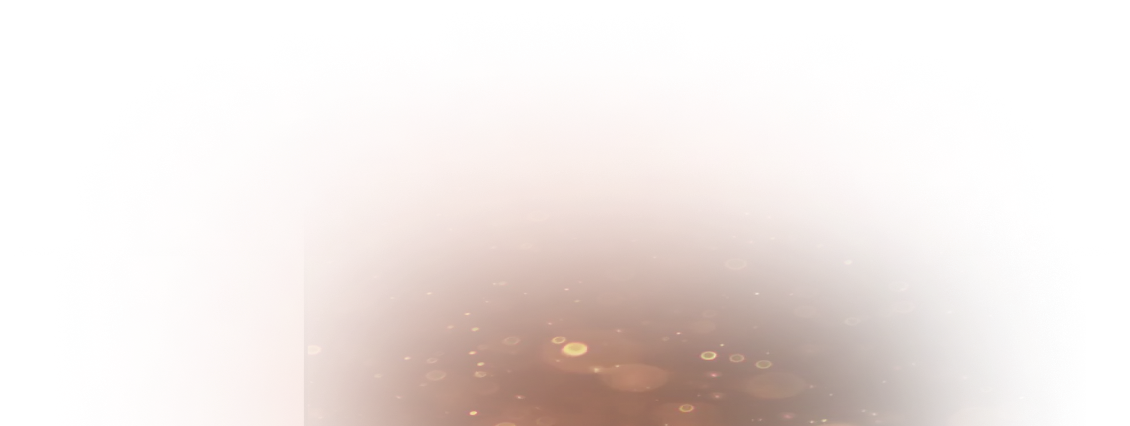
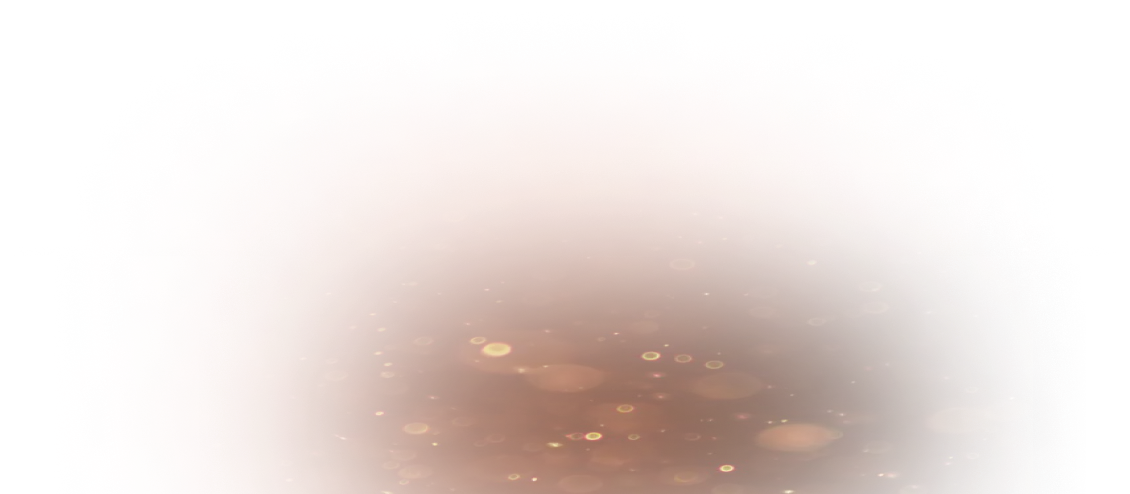
footer edits

diff --git a/style/style.min.css b/style/style.min.css
@@ -1,1 +1,1 @@
-@font-face{font-family:'Intro Black';src:url("../fonts/intro_black.ttf") format("truetype");font-weight:400;font-style:normal}*,*::before,*::after{-webkit-box-sizing:border-box;box-sizing:border-box;margin:0;padding:0;position:relative;scroll-behavior:smooth}ul{list-style:none}a,a:visited{text-decoration:none;color:#fff}body{line-height:1.7;font-family:'Montserrat', sans-serif;text-rendering:optimizeLegibility;-webkit-font-smoothing:antialiased;-moz-osx-font-smoothing:grayscale;background-color:#0A0011;overflow-x:hidden}.container{margin:0 auto;padding:0 30px;max-width:1260px}.section{width:100%;position:relative}.btn{-webkit-appearance:none;-moz-appearance:none;appearance:none;border:none;display:block;cursor:pointer;background:linear-gradient(87.55deg, #EF4E1C 0%, #FF6D40 95.72%);-webkit-box-shadow:0px 4px 113px rgba(241,82,32,0.82),inset 0px 0px 31px #FF966B;box-shadow:0px 4px 113px rgba(241,82,32,0.82),inset 0px 0px 31px #FF966B;border-radius:12px;font-size:21px;line-height:176%;font-weight:700;text-align:center;display:-webkit-box;display:-ms-flexbox;display:flex;-webkit-box-align:center;-ms-flex-align:center;align-items:center;-webkit-box-pack:center;-ms-flex-pack:center;justify-content:center;letter-spacing:0.095em;text-transform:uppercase;color:#fff;padding:30px;-webkit-transition:-webkit-box-shadow .3s ease-in-out;transition:-webkit-box-shadow .3s ease-in-out;transition:box-shadow .3s ease-in-out;transition:box-shadow .3s ease-in-out, -webkit-box-shadow .3s ease-in-out}.btn:hover{-webkit-box-shadow:0px 4px 73px rgba(241,82,32,0.82),inset 0px 0px 31px #FF966B;box-shadow:0px 4px 73px rgba(241,82,32,0.82),inset 0px 0px 31px #FF966B}.text{font-weight:400;font-size:18px;line-height:176%}.title{font-family:'Intro Black';font-style:normal;font-weight:900;line-height:110%;font-size:66px}.d-none{display:none !important}.no-events{pointer-events:none}.overflow-hidden{overflow:hidden}.floating{-webkit-animation:floating 6s linear infinite;animation:floating 6s linear infinite}.floating-1{-webkit-animation:floating 5s ease-in infinite;animation:floating 5s ease-in infinite;-webkit-animation-delay:1s;animation-delay:1s}.floating-2{-webkit-animation:floatingX 8s linear infinite;animation:floatingX 8s linear infinite}.floating-3{-webkit-animation:floating 4s linear infinite;animation:floating 4s linear infinite}.floating-4{-webkit-animation:floatingX 5s ease-in-out infinite;animation:floatingX 5s ease-in-out infinite}.floating-delay{-webkit-animation-delay:3s;animation-delay:3s;-webkit-animation-duration:5.5s;animation-duration:5.5s}@-webkit-keyframes floating{0%{-webkit-transform:rotate(0deg) translate(0, 0);transform:rotate(0deg) translate(0, 0)}50%{-webkit-transform:rotate(1deg) translate(0, -20px);transform:rotate(1deg) translate(0, -20px)}100%{-webkit-transform:rotate(0deg) translate(0, 0);transform:rotate(0deg) translate(0, 0)}}@keyframes floating{0%{-webkit-transform:rotate(0deg) translate(0, 0);transform:rotate(0deg) translate(0, 0)}50%{-webkit-transform:rotate(1deg) translate(0, -20px);transform:rotate(1deg) translate(0, -20px)}100%{-webkit-transform:rotate(0deg) translate(0, 0);transform:rotate(0deg) translate(0, 0)}}@-webkit-keyframes floatingX{0%{-webkit-transform:rotate(0deg) translate(0, 0);transform:rotate(0deg) translate(0, 0)}50%{-webkit-transform:rotate(4deg) translate(20px, 5px);transform:rotate(4deg) translate(20px, 5px)}100%{-webkit-transform:rotate(0deg) translate(0, 0);transform:rotate(0deg) translate(0, 0)}}@keyframes floatingX{0%{-webkit-transform:rotate(0deg) translate(0, 0);transform:rotate(0deg) translate(0, 0)}50%{-webkit-transform:rotate(4deg) translate(20px, 5px);transform:rotate(4deg) translate(20px, 5px)}100%{-webkit-transform:rotate(0deg) translate(0, 0);transform:rotate(0deg) translate(0, 0)}}.accordeon{margin-bottom:30px;z-index:2}.accordeon__head{width:100%;background-color:#0F0F0F;border-radius:13px;padding:14px 38px 14px 55px;display:-webkit-box;display:-ms-flexbox;display:flex;-webkit-box-align:center;-ms-flex-align:center;align-items:center;-webkit-box-pack:justify;-ms-flex-pack:justify;justify-content:space-between;cursor:pointer;z-index:2}.accordeon__head .line{-webkit-transition:-webkit-transform .3s ease-out;transition:-webkit-transform .3s ease-out;transition:transform .3s ease-out;transition:transform .3s ease-out, -webkit-transform .3s ease-out;-webkit-transform-origin:center;transform-origin:center}.accordeon__head.active .line{-webkit-transform:rotate(90deg);transform:rotate(90deg)}.accordeon__panel{margin-top:-20px;background-color:#C8C8C8;border-radius:0 0 13px 13px;max-height:0;overflow:hidden;-webkit-transition:max-height 0.2s ease-out;transition:max-height 0.2s ease-out}.accordeon__panel p{padding:60px 55px 38px}.accordeon__title{color:#fff}.header{width:100%;position:absolute;top:0;left:0;right:0;background:transparent;z-index:10;padding-top:50px}.header__wrap{display:-webkit-box;display:-ms-flexbox;display:flex;-webkit-box-align:center;-ms-flex-align:center;align-items:center}.header__logo{font-family:'Intro Black';font-style:normal;font-weight:900;font-size:33px;line-height:1.0;color:#FFFFFF;margin-right:194px}.header__logo span{display:block;font-family:'Montserrat', sans-serif;font-size:14px;line-height:1.0}.header__nav{display:-webkit-box;display:-ms-flexbox;display:flex;-webkit-box-align:center;-ms-flex-align:center;align-items:center}.header__nav-item{margin-right:53px}.header__nav-item a{font-weight:700;color:#FFFFFF}.header__lang{margin-left:auto}.header__lang a{font-weight:700;color:#B7B7B7}.header__lang span{font-weight:700;color:#B7B7B7}.header__lang a.active{color:#fff}.baner{position:relative;min-height:100vh;background:url("../assets/baner-bg.jpg") no-repeat;background-size:cover;background-position:center;overflow:hidden}.baner__wrap{display:-webkit-box;display:-ms-flexbox;display:flex;-webkit-box-pack:justify;-ms-flex-pack:justify;justify-content:space-between;padding-top:50px}.baner__hero{padding-top:160px}.baner__title{font-size:69px;color:#FFFFFF;line-height:100%;margin-bottom:30px}.baner__title span{font-size:152px;display:block;line-height:1}.baner__text{color:#fff;margin-bottom:48px;max-width:535px}.baner__man{height:100%;min-height:calc(100vh - 50px);-webkit-transform:translateX(-15%);transform:translateX(-15%)}.baner__left-corner-anim{position:absolute;left:0;bottom:0;-webkit-transform:translate(-40%, 40%);transform:translate(-40%, 40%);width:800px;height:800px}.baner__right-corner-anim{position:absolute;right:0;bottom:0;-webkit-transform:translate(40%, 40%);transform:translate(40%, 40%);width:800px;height:800px}.community{background-color:#171717;padding:240px 0;margin-top:-90px;color:#fff;background:url("../assets/community-bg.png") no-repeat;background-size:cover;background-position-x:center;overflow:hidden}.community__title{margin-bottom:54px;color:#fff;max-width:1000px}.community__title span{color:#FD6D32}.community__text{max-width:587px;color:#fff;margin-bottom:30px}.community__phone{position:absolute;top:0;right:0;width:700px;height:930px;-webkit-transform:translateX(20%);transform:translateX(20%)}.community__small-coin{position:absolute;right:-100px;bottom:400px;-webkit-filter:drop-shadow(0px 182px 107px rgba(0,0,0,0.46));filter:drop-shadow(0px 182px 107px rgba(0,0,0,0.46));-webkit-transform:rotate(-30deg);transform:rotate(-30deg);width:295px;height:280px}.community__big-coin{position:absolute;left:-100px;bottom:-100px;-webkit-filter:drop-shadow(0px 182px 107px rgba(0,0,0,0.46));filter:drop-shadow(0px 182px 107px rgba(0,0,0,0.46));width:495px;height:470px;-webkit-transform:translate(-60%, 50%) rotate(29deg);transform:translate(-60%, 50%) rotate(29deg)}.calculator{margin-top:320px}.calculator__title{text-align:center;text-transform:uppercase;margin-bottom:8px;color:#FFFFFF}.calculator__subtitle{text-align:center;letter-spacing:0.255em;text-transform:uppercase;color:#FFFFFF;margin-bottom:37px}.calculator__hero{display:-webkit-box;display:-ms-flexbox;display:flex;-webkit-box-pack:justify;-ms-flex-pack:justify;justify-content:space-between;-webkit-box-align:center;-ms-flex-align:center;align-items:center}.calculator__resume{padding:54px 50px;cursor:default;background:linear-gradient(87.55deg, #EF4E1C 0%, #FF6D40 95.72%);-webkit-box-shadow:0px 4px 113px rgba(241,82,32,0.82),inset 0px 0px 31px #FF966B;box-shadow:0px 4px 113px rgba(241,82,32,0.82),inset 0px 0px 31px #FF966B;border-radius:12px;color:#fff;max-width:550px;margin-right:50px}.calculator__resume-row{display:-webkit-box;display:-ms-flexbox;display:flex;-webkit-box-pack:justify;-ms-flex-pack:justify;justify-content:space-between;margin-bottom:40px}.calculator__resume-left{-ms-flex-preferred-size:60%;flex-basis:60%}.calculator__summ-title{letter-spacing:0;text-transform:none;text-align:left;line-height:1;margin-bottom:5px}.calculator__summ{font-size:50px;letter-spacing:0.2em;text-align:left;line-height:1.2;font-weight:700}.calculator__resume-right{-ms-flex-preferred-size:43%;flex-basis:43%;display:-webkit-box;display:-ms-flexbox;display:flex;-webkit-box-align:center;-ms-flex-align:center;align-items:center;font-weight:400;font-size:15px;text-align:left;border-left:2px solid #EBB592;padding-left:45px}.calculator__resume-text{font-size:15px}.range{padding-top:60px}.range__text{margin-bottom:64px}.range__wrap{position:relative}.range__input{width:100%;cursor:pointer;opacity:0}.range__input::-ms-tooltip{display:none}.range__track{width:100%;height:2px;background:#fff;position:absolute;top:50%;-webkit-transform:translateY(-50%);transform:translateY(-50%);pointer-events:none}.range__track-inner{width:0;height:8px;-webkit-transform:translateY(-3px);transform:translateY(-3px);background:#FD6D32;-webkit-box-shadow:0px 1px 14px rgba(241,82,32,0.82),inset 0px 0px 31px #FD6D32;box-shadow:0px 1px 14px rgba(241,82,32,0.82),inset 0px 0px 31px #FD6D32}.range__thumb{width:22px;height:22px;background:#FD6D32;border-radius:50%;position:absolute;top:50%;left:0;-webkit-transform:translate(0%, -50%);transform:translate(0%, -50%);pointer-events:none;-webkit-box-shadow:0px 1px 14px rgba(241,82,32,0.82),inset 0px 0px 31px #FD6D32;box-shadow:0px 1px 14px rgba(241,82,32,0.82),inset 0px 0px 31px #FD6D32}.range__thumb::after{content:attr(data-value);display:-webkit-box;display:-ms-flexbox;display:flex;-webkit-box-pack:center;-ms-flex-pack:center;justify-content:center;-webkit-box-align:center;-ms-flex-align:center;align-items:center;position:absolute;bottom:-75px;left:-150px;background:url("../assets/range-bg.png") no-repeat;background-size:cover;width:320px;height:290px;z-index:10;font-weight:600;font-size:21px;color:#FFFFFF;text-align:center;padding-bottom:10px}.range__labels{display:-webkit-box;display:-ms-flexbox;display:flex;-webkit-box-pack:justify;-ms-flex-pack:justify;justify-content:space-between;-webkit-box-align:center;-ms-flex-align:center;align-items:center;margin-bottom:32px}.range__label{color:#fff}.payments{background-color:#fff;color:#141414;padding:125px 0;background:url("../assets/payments-bg.png") no-repeat;background-size:cover;background-position-x:center;margin-top:-60px;margin-bottom:-60px;z-index:3}.payments__container{max-width:1400px;padding:0 30px;margin:0 auto;display:-webkit-box;display:-ms-flexbox;display:flex;-webkit-box-pack:justify;-ms-flex-pack:justify;justify-content:space-between;-webkit-box-align:center;-ms-flex-align:center;align-items:center}.payments__img{-ms-flex-preferred-size:50%;flex-basis:50%;margin-right:50px}.payments__hero{-ms-flex-preferred-size:50%;flex-basis:50%}.payments__title{margin-bottom:15px;text-transform:uppercase}.payments__table{margin-bottom:42px;border:1px solid #000000;border-radius:22px;display:-webkit-box;display:-ms-flexbox;display:flex;-webkit-box-pack:justify;-ms-flex-pack:justify;justify-content:space-between;padding:20px 30px}.payments__left{-ms-flex-preferred-size:50%;flex-basis:50%}.payments__right{-ms-flex-preferred-size:50%;flex-basis:50%;border-left:1px solid #000;padding-left:26px}.start{padding:150px 0;background:url("../assets/start-bg.jpg") no-repeat;background-size:cover;background-position-x:center;background-position-y:center}.start__title{text-align:center;color:#fff;margin-bottom:36px;text-transform:uppercase}.start__title span{color:#FD6D32}.start__text{text-align:center;color:#fff;margin-bottom:32px}.start__btn{margin:0 auto}.ceo{position:relative;background:url("../assets/ceo-bg.jpg") no-repeat;background-size:cover;background-position-x:center;background-position-y:center}.ceo::before{content:'';background:linear-gradient(270.03deg, #0F0F0F 5.92%, #131111 50.97%, #171717 95.09%);-webkit-filter:blur(50px);filter:blur(50px);position:absolute;top:-100px;left:0;right:0;height:200px}.ceo__wrapper{display:-webkit-box;display:-ms-flexbox;display:flex;-webkit-box-pack:justify;-ms-flex-pack:justify;justify-content:space-between}.ceo__hero{height:100%;padding-top:80px}.ceo__img{-webkit-transform:translateX(-25%);transform:translateX(-25%)}.ceo__title{font-size:109px;text-transform:uppercase;color:#FFFFFF}.ceo__subtitle{font-weight:700;color:#FD6D32;margin-bottom:24px}.ceo__list{color:#fff;list-style:square;padding-left:20px}.ceo__item{margin-bottom:20px;padding-left:7px}.deals{background-color:#fff;padding:160px 0;background:url("../assets//deals/deals-bg.png") no-repeat;background-size:cover;background-position-x:center;background-position-y:center;margin-top:-80px;margin-bottom:-80px;z-index:3}.deals__title{text-align:center;text-transform:uppercase;color:#141414;margin-bottom:56px}.deals__carousel{margin-bottom:75px}.deals__slide{padding:0 38px 0 0}.deals__item{border-radius:30px;overflow:hidden}.deals__item:first-child{margin-bottom:30px}.deals__item img{height:100%;width:100%}.deals__controls{display:-webkit-box;display:-ms-flexbox;display:flex;-webkit-box-pack:center;-ms-flex-pack:center;justify-content:center;-webkit-box-align:center;-ms-flex-align:center;align-items:center}.deals__carousel-btn{-webkit-appearance:none;-moz-appearance:none;appearance:none;border:none;display:block;cursor:pointer;background:#141414;border-radius:14px;display:-webkit-box;display:-ms-flexbox;display:flex;-webkit-box-pack:center;-ms-flex-pack:center;justify-content:center;-webkit-box-align:center;-ms-flex-align:center;align-items:center;width:137px;height:71px}.deals__left-arrow{margin-right:20px}.deals__carousel .owl-stage{margin-left:calc(50vw - 660px)}.reviews{background:url("../assets/reviews-bg.jpg") no-repeat;background-size:cover;background-position-x:center;background-position-y:center;padding:160px 0}.reviews__title{text-align:center;text-transform:uppercase;color:#FFFFFF;margin-bottom:60px}.reviews__carousel{margin-bottom:75px}.reviews__slide{padding:0 38px 0 0}.reviews__item{border-radius:30px;overflow:hidden}.reviews__item:first-child{margin-bottom:30px}.reviews__item img{height:100%;width:100%}.reviews__controls{display:-webkit-box;display:-ms-flexbox;display:flex;-webkit-box-pack:center;-ms-flex-pack:center;justify-content:center;-webkit-box-align:center;-ms-flex-align:center;align-items:center}.reviews__carousel-btn{-webkit-appearance:none;-moz-appearance:none;appearance:none;border:none;display:block;cursor:pointer;background:#fff;border-radius:14px;display:-webkit-box;display:-ms-flexbox;display:flex;-webkit-box-pack:center;-ms-flex-pack:center;justify-content:center;-webkit-box-align:center;-ms-flex-align:center;align-items:center;width:137px;height:71px}.reviews__left-arrow{margin-right:20px}.reviews__carousel .owl-stage{margin-left:calc(50vw - 660px)}.telegram{background-color:#141414;position:relative}.telegram::before{content:'';background:linear-gradient(270.03deg, #0F0F0F 5.92%, #131111 50.97%, #141414 95.09%);-webkit-filter:blur(50px);filter:blur(50px);position:absolute;top:-100px;left:0;right:0;height:200px}.telegram__wrap{display:-webkit-box;display:-ms-flexbox;display:flex;-webkit-box-pack:justify;-ms-flex-pack:justify;justify-content:space-between}.telegram__hero{margin-right:40px;padding-top:60px}.telegram__title{text-transform:uppercase;color:#FFFFFF;max-width:550px;margin-bottom:32px}.telegram__text{color:#fff;margin-bottom:55px;max-width:450px}.telegram__phone{position:relative}.telegram__phone::before{content:"";position:absolute;top:0;right:0;background:url("../assets/telegram/light.png") no-repeat;background-size:cover;width:600px;height:600px;-webkit-transform:translate(50%, 50%);transform:translate(50%, 50%)}.telegram__small-item{position:absolute;bottom:800px;right:0;width:450px;height:450px;-webkit-transform:rotate(-32deg) translate(70%, 0%);transform:rotate(-32deg) translate(70%, 0%)}.telegram__big-item{position:absolute;bottom:0;left:0;width:700px;height:700px;-webkit-transform:rotate(25deg) translate(-100%, 10%);transform:rotate(25deg) translate(-100%, 10%)}.faq{position:relative;background-color:#fff;background:url("../assets/faq-bg.png") no-repeat;background-size:100% 100%;background-position-x:center;background-position-y:center;padding:160px 0;margin-top:-550px;overflow:hidden}.faq__title{text-align:center;text-transform:uppercase;color:#141414;margin-bottom:28px}.faq__small-question{position:absolute;top:60px;right:20px}.faq__small-question img{-webkit-transform:rotate(-34deg);transform:rotate(-34deg);width:200px}.faq__big-question{position:absolute;left:-70px;top:30%}.faq__big-question img{width:300px;-webkit-transform:rotate(26deg);transform:rotate(26deg)}.footer{background-color:#0A0011;padding:60px 0;position:relative;overflow:hidden}.footer::after{content:'';position:absolute;bottom:0;left:50%;-webkit-transform:translate(-50%, 0%);transform:translate(-50%, 0%);background:url("../assets/footer-light.png") no-repeat;background-size:cover;background-position-x:center;background-position-y:top;width:1100px;height:400px;pointer-events:none}.footer__wrap{display:-webkit-box;display:-ms-flexbox;display:flex;-webkit-box-pack:justify;-ms-flex-pack:justify;justify-content:space-between}.footer__logo{font-family:'Intro Black';font-style:normal;font-weight:900;font-size:33px;line-height:1.0;color:#FFFFFF;margin-right:194px}.footer__logo span{display:block;font-family:'Montserrat', sans-serif;font-size:14px;line-height:1.0}.footer__links{display:-webkit-box;display:-ms-flexbox;display:flex;-webkit-box-orient:vertical;-webkit-box-direction:normal;-ms-flex-direction:column;flex-direction:column}.footer__link{font-weight:700;color:#FFFFFF;margin-bottom:18px;cursor:pointer}.footer__mail{font-weight:700;color:#FFFFFF}.footer__socials{display:-webkit-box;display:-ms-flexbox;display:flex;-webkit-box-pack:justify;-ms-flex-pack:justify;justify-content:space-between;-webkit-box-align:start;-ms-flex-align:start;align-items:flex-start}.footer__social{margin-left:80px}
+@font-face{font-family:'Intro Black';src:url("../fonts/intro_black.ttf") format("truetype");font-weight:400;font-style:normal}*,*::before,*::after{-webkit-box-sizing:border-box;box-sizing:border-box;margin:0;padding:0;position:relative;scroll-behavior:smooth}ul{list-style:none}a,a:visited{text-decoration:none;color:#fff}body{line-height:1.7;font-family:'Montserrat', sans-serif;text-rendering:optimizeLegibility;-webkit-font-smoothing:antialiased;-moz-osx-font-smoothing:grayscale;background-color:#0A0011;overflow-x:hidden}.container{margin:0 auto;padding:0 30px;max-width:1260px}.section{width:100%;position:relative}.btn{-webkit-appearance:none;-moz-appearance:none;appearance:none;border:none;display:block;cursor:pointer;background:linear-gradient(87.55deg, #EF4E1C 0%, #FF6D40 95.72%);-webkit-box-shadow:0px 4px 113px rgba(241,82,32,0.82),inset 0px 0px 31px #FF966B;box-shadow:0px 4px 113px rgba(241,82,32,0.82),inset 0px 0px 31px #FF966B;border-radius:12px;font-size:21px;line-height:176%;font-weight:700;text-align:center;display:-webkit-box;display:-ms-flexbox;display:flex;-webkit-box-align:center;-ms-flex-align:center;align-items:center;-webkit-box-pack:center;-ms-flex-pack:center;justify-content:center;letter-spacing:0.095em;text-transform:uppercase;color:#fff;padding:30px;-webkit-transition:-webkit-box-shadow .3s ease-in-out;transition:-webkit-box-shadow .3s ease-in-out;transition:box-shadow .3s ease-in-out;transition:box-shadow .3s ease-in-out, -webkit-box-shadow .3s ease-in-out}.btn:hover{-webkit-box-shadow:0px 4px 73px rgba(241,82,32,0.82),inset 0px 0px 31px #FF966B;box-shadow:0px 4px 73px rgba(241,82,32,0.82),inset 0px 0px 31px #FF966B}.text{font-weight:400;font-size:18px;line-height:176%}.title{font-family:'Intro Black';font-style:normal;font-weight:900;line-height:110%;font-size:66px}.d-none{display:none !important}.no-events{pointer-events:none}.overflow-hidden{overflow:hidden}.floating{pointer-events:none;-webkit-animation:floating 6s linear infinite;animation:floating 6s linear infinite}.floating-1{pointer-events:none;-webkit-animation:floating 5s ease-in infinite;animation:floating 5s ease-in infinite;-webkit-animation-delay:1s;animation-delay:1s}.floating-2{pointer-events:none;-webkit-animation:floatingX 8s linear infinite;animation:floatingX 8s linear infinite}.floating-3{pointer-events:none;-webkit-animation:floating 4s linear infinite;animation:floating 4s linear infinite}.floating-4{pointer-events:none;-webkit-animation:floatingX 5s ease-in-out infinite;animation:floatingX 5s ease-in-out infinite}.floating-delay{-webkit-animation-delay:3s;animation-delay:3s;-webkit-animation-duration:5.5s;animation-duration:5.5s}@-webkit-keyframes floating{0%{-webkit-transform:rotate(0deg) translate(0, 0);transform:rotate(0deg) translate(0, 0)}50%{-webkit-transform:rotate(1deg) translate(0, -20px);transform:rotate(1deg) translate(0, -20px)}100%{-webkit-transform:rotate(0deg) translate(0, 0);transform:rotate(0deg) translate(0, 0)}}@keyframes floating{0%{-webkit-transform:rotate(0deg) translate(0, 0);transform:rotate(0deg) translate(0, 0)}50%{-webkit-transform:rotate(1deg) translate(0, -20px);transform:rotate(1deg) translate(0, -20px)}100%{-webkit-transform:rotate(0deg) translate(0, 0);transform:rotate(0deg) translate(0, 0)}}@-webkit-keyframes floatingX{0%{-webkit-transform:rotate(0deg) translate(0, 0);transform:rotate(0deg) translate(0, 0)}50%{-webkit-transform:rotate(4deg) translate(20px, 5px);transform:rotate(4deg) translate(20px, 5px)}100%{-webkit-transform:rotate(0deg) translate(0, 0);transform:rotate(0deg) translate(0, 0)}}@keyframes floatingX{0%{-webkit-transform:rotate(0deg) translate(0, 0);transform:rotate(0deg) translate(0, 0)}50%{-webkit-transform:rotate(4deg) translate(20px, 5px);transform:rotate(4deg) translate(20px, 5px)}100%{-webkit-transform:rotate(0deg) translate(0, 0);transform:rotate(0deg) translate(0, 0)}}.accordeon{margin-bottom:30px;z-index:2}.accordeon__head{width:100%;background-color:#0F0F0F;border-radius:13px;padding:14px 38px 14px 55px;display:-webkit-box;display:-ms-flexbox;display:flex;-webkit-box-align:center;-ms-flex-align:center;align-items:center;-webkit-box-pack:justify;-ms-flex-pack:justify;justify-content:space-between;cursor:pointer;z-index:2}.accordeon__head .line{-webkit-transition:-webkit-transform .3s ease-out;transition:-webkit-transform .3s ease-out;transition:transform .3s ease-out;transition:transform .3s ease-out, -webkit-transform .3s ease-out;-webkit-transform-origin:center;transform-origin:center}.accordeon__head.active .line{-webkit-transform:rotate(90deg);transform:rotate(90deg)}.accordeon__panel{margin-top:-20px;background-color:#C8C8C8;border-radius:0 0 13px 13px;max-height:0;overflow:hidden;-webkit-transition:max-height 0.2s ease-out;transition:max-height 0.2s ease-out}.accordeon__panel p{padding:60px 55px 38px}.accordeon__title{color:#fff}.header{width:100%;position:absolute;top:0;left:0;right:0;background:transparent;z-index:10;padding-top:50px}.header__wrap{display:-webkit-box;display:-ms-flexbox;display:flex;-webkit-box-align:center;-ms-flex-align:center;align-items:center}.header__logo{font-family:'Intro Black';font-style:normal;font-weight:900;font-size:33px;line-height:1.0;color:#FFFFFF;margin-right:194px}.header__logo span{display:block;font-family:'Montserrat', sans-serif;font-size:14px;line-height:1.0}.header__nav{display:-webkit-box;display:-ms-flexbox;display:flex;-webkit-box-align:center;-ms-flex-align:center;align-items:center}.header__nav-item{margin-right:53px}.header__nav-item a{font-weight:700;color:#FFFFFF}.header__lang{margin-left:auto}.header__lang a{font-weight:700;color:#B7B7B7}.header__lang span{font-weight:700;color:#B7B7B7}.header__lang a.active{color:#fff}.baner{position:relative;min-height:100vh;background:url("../assets/baner-bg.jpg") no-repeat;background-size:cover;background-position:center;overflow:hidden}.baner__wrap{display:-webkit-box;display:-ms-flexbox;display:flex;-webkit-box-pack:justify;-ms-flex-pack:justify;justify-content:space-between;padding-top:50px}.baner__hero{padding-top:160px}.baner__title{font-size:69px;color:#FFFFFF;line-height:100%;margin-bottom:30px}.baner__title span{font-size:152px;display:block;line-height:1}.baner__text{color:#fff;margin-bottom:48px;max-width:535px}.baner__man{height:100%;min-height:calc(100vh - 50px);-webkit-transform:translateX(-15%);transform:translateX(-15%)}.baner__left-corner-anim{pointer-events:none;position:absolute;left:0;bottom:0;-webkit-transform:translate(-40%, 40%);transform:translate(-40%, 40%);width:600px;height:800px}.baner__right-corner-anim{pointer-events:none;position:absolute;right:0;bottom:0;-webkit-transform:translate(40%, 40%);transform:translate(40%, 40%);width:600px;height:800px}.community{background-color:#171717;padding:240px 0;margin-top:-90px;color:#fff;background:url("../assets/community-bg.png") no-repeat;background-size:cover;background-position-x:center;overflow:hidden}.community__title{margin-bottom:54px;color:#fff;max-width:1000px}.community__title span{color:#FD6D32}.community__text{max-width:587px;color:#fff;margin-bottom:30px}.community__phone{position:absolute;top:0;right:0;width:700px;height:930px;-webkit-transform:translateX(20%);transform:translateX(20%)}.community__small-coin{position:absolute;right:-100px;bottom:400px;-webkit-filter:drop-shadow(0px 182px 107px rgba(0,0,0,0.46));filter:drop-shadow(0px 182px 107px rgba(0,0,0,0.46));-webkit-transform:rotate(-30deg);transform:rotate(-30deg);width:295px;height:280px}.community__big-coin{position:absolute;left:-100px;bottom:-100px;-webkit-filter:drop-shadow(0px 182px 107px rgba(0,0,0,0.46));filter:drop-shadow(0px 182px 107px rgba(0,0,0,0.46));width:495px;height:470px;-webkit-transform:translate(-60%, 50%) rotate(29deg);transform:translate(-60%, 50%) rotate(29deg)}.calculator{margin-top:320px}.calculator__title{text-align:center;text-transform:uppercase;margin-bottom:8px;color:#FFFFFF}.calculator__subtitle{text-align:center;letter-spacing:0.255em;text-transform:uppercase;color:#FFFFFF;margin-bottom:37px}.calculator__hero{display:-webkit-box;display:-ms-flexbox;display:flex;-webkit-box-pack:justify;-ms-flex-pack:justify;justify-content:space-between;-webkit-box-align:center;-ms-flex-align:center;align-items:center}.calculator__resume{padding:54px 50px;cursor:default;background:linear-gradient(87.55deg, #EF4E1C 0%, #FF6D40 95.72%);-webkit-box-shadow:0px 4px 113px rgba(241,82,32,0.82),inset 0px 0px 31px #FF966B;box-shadow:0px 4px 113px rgba(241,82,32,0.82),inset 0px 0px 31px #FF966B;border-radius:12px;color:#fff;max-width:550px;margin-right:50px}.calculator__resume-row{display:-webkit-box;display:-ms-flexbox;display:flex;-webkit-box-pack:justify;-ms-flex-pack:justify;justify-content:space-between;margin-bottom:40px}.calculator__resume-left{-ms-flex-preferred-size:60%;flex-basis:60%}.calculator__summ-title{letter-spacing:0;text-transform:none;text-align:left;line-height:1;margin-bottom:5px}.calculator__summ{font-size:50px;letter-spacing:0.2em;text-align:left;line-height:1.2;font-weight:700}.calculator__resume-right{-ms-flex-preferred-size:43%;flex-basis:43%;display:-webkit-box;display:-ms-flexbox;display:flex;-webkit-box-align:center;-ms-flex-align:center;align-items:center;font-weight:400;font-size:15px;text-align:left;border-left:2px solid #EBB592;padding-left:45px}.calculator__resume-text{font-size:15px}.range{padding-top:60px}.range__text{margin-bottom:64px}.range__wrap{position:relative}.range__input{width:100%;cursor:pointer;opacity:0}.range__input::-ms-tooltip{display:none}.range__track{width:100%;height:2px;background:#fff;position:absolute;top:50%;-webkit-transform:translateY(-50%);transform:translateY(-50%);pointer-events:none}.range__track-inner{width:0;height:8px;-webkit-transform:translateY(-3px);transform:translateY(-3px);background:#FD6D32;-webkit-box-shadow:0px 1px 14px rgba(241,82,32,0.82),inset 0px 0px 31px #FD6D32;box-shadow:0px 1px 14px rgba(241,82,32,0.82),inset 0px 0px 31px #FD6D32}.range__thumb{width:22px;height:22px;background:#FD6D32;border-radius:50%;position:absolute;top:50%;left:0;-webkit-transform:translate(0%, -50%);transform:translate(0%, -50%);pointer-events:none;-webkit-box-shadow:0px 1px 14px rgba(241,82,32,0.82),inset 0px 0px 31px #FD6D32;box-shadow:0px 1px 14px rgba(241,82,32,0.82),inset 0px 0px 31px #FD6D32}.range__thumb::after{content:attr(data-value);display:-webkit-box;display:-ms-flexbox;display:flex;-webkit-box-pack:center;-ms-flex-pack:center;justify-content:center;-webkit-box-align:center;-ms-flex-align:center;align-items:center;position:absolute;bottom:-75px;left:-150px;background:url("../assets/range-bg.png") no-repeat;background-size:cover;width:320px;height:290px;z-index:10;font-weight:600;font-size:21px;color:#FFFFFF;text-align:center;padding-bottom:10px}.range__labels{display:-webkit-box;display:-ms-flexbox;display:flex;-webkit-box-pack:justify;-ms-flex-pack:justify;justify-content:space-between;-webkit-box-align:center;-ms-flex-align:center;align-items:center;margin-bottom:32px}.range__label{color:#fff}.payments{background-color:#fff;color:#141414;padding:125px 0;background:url("../assets/payments-bg.png") no-repeat;background-size:cover;background-position-x:center;margin-top:-60px;margin-bottom:-60px;z-index:3}.payments__container{max-width:1400px;padding:0 30px;margin:0 auto;display:-webkit-box;display:-ms-flexbox;display:flex;-webkit-box-pack:justify;-ms-flex-pack:justify;justify-content:space-between;-webkit-box-align:center;-ms-flex-align:center;align-items:center}.payments__img{-ms-flex-preferred-size:50%;flex-basis:50%;margin-right:50px}.payments__hero{-ms-flex-preferred-size:50%;flex-basis:50%}.payments__title{margin-bottom:15px;text-transform:uppercase}.payments__table{margin-bottom:42px;border:1px solid #000000;border-radius:22px;display:-webkit-box;display:-ms-flexbox;display:flex;-webkit-box-pack:justify;-ms-flex-pack:justify;justify-content:space-between;padding:20px 30px}.payments__left{-ms-flex-preferred-size:50%;flex-basis:50%}.payments__right{-ms-flex-preferred-size:50%;flex-basis:50%;border-left:1px solid #000;padding-left:26px}.start{padding:150px 0;background:url("../assets/start-bg.jpg") no-repeat;background-size:cover;background-position-x:center;background-position-y:center}.start__title{text-align:center;color:#fff;margin-bottom:36px;text-transform:uppercase}.start__title span{color:#FD6D32}.start__text{text-align:center;color:#fff;margin-bottom:32px}.start__btn{margin:0 auto}.ceo{position:relative;background:url("../assets/ceo-bg.jpg") no-repeat;background-size:cover;background-position-x:center;background-position-y:center}.ceo::before{content:'';background:linear-gradient(270.03deg, #0F0F0F 5.92%, #131111 50.97%, #171717 95.09%);-webkit-filter:blur(50px);filter:blur(50px);position:absolute;top:-100px;left:0;right:0;height:200px}.ceo__wrapper{display:-webkit-box;display:-ms-flexbox;display:flex;-webkit-box-pack:justify;-ms-flex-pack:justify;justify-content:space-between}.ceo__hero{height:100%;padding-top:80px}.ceo__img{-webkit-transform:translateX(-25%);transform:translateX(-25%)}.ceo__title{font-size:109px;text-transform:uppercase;color:#FFFFFF}.ceo__subtitle{font-weight:700;color:#FD6D32;margin-bottom:24px}.ceo__list{color:#fff;list-style:square;padding-left:20px}.ceo__item{margin-bottom:20px;padding-left:7px}.deals{background-color:#fff;padding:160px 0;background:url("../assets//deals/deals-bg.png") no-repeat;background-size:cover;background-position-x:center;background-position-y:center;margin-top:-80px;margin-bottom:-80px;z-index:3}.deals__title{text-align:center;text-transform:uppercase;color:#141414;margin-bottom:56px}.deals__carousel{margin-bottom:75px}.deals__slide{padding:0 38px 0 0}.deals__item{border-radius:30px;overflow:hidden}.deals__item:first-child{margin-bottom:30px}.deals__item img{height:100%;width:100%}.deals__controls{display:-webkit-box;display:-ms-flexbox;display:flex;-webkit-box-pack:center;-ms-flex-pack:center;justify-content:center;-webkit-box-align:center;-ms-flex-align:center;align-items:center}.deals__carousel-btn{-webkit-appearance:none;-moz-appearance:none;appearance:none;border:none;display:block;cursor:pointer;background:#141414;border-radius:14px;display:-webkit-box;display:-ms-flexbox;display:flex;-webkit-box-pack:center;-ms-flex-pack:center;justify-content:center;-webkit-box-align:center;-ms-flex-align:center;align-items:center;width:137px;height:71px}.deals__left-arrow{margin-right:20px}.deals__carousel .owl-stage{margin-left:calc(50vw - 660px)}.reviews{background:url("../assets/reviews-bg.jpg") no-repeat;background-size:cover;background-position-x:center;background-position-y:center;padding:160px 0}.reviews__title{text-align:center;text-transform:uppercase;color:#FFFFFF;margin-bottom:60px}.reviews__carousel{margin-bottom:75px}.reviews__slide{padding:0 38px 0 0}.reviews__item{border-radius:30px;overflow:hidden}.reviews__item:first-child{margin-bottom:30px}.reviews__item img{height:100%;width:100%}.reviews__controls{display:-webkit-box;display:-ms-flexbox;display:flex;-webkit-box-pack:center;-ms-flex-pack:center;justify-content:center;-webkit-box-align:center;-ms-flex-align:center;align-items:center}.reviews__carousel-btn{-webkit-appearance:none;-moz-appearance:none;appearance:none;border:none;display:block;cursor:pointer;background:#fff;border-radius:14px;display:-webkit-box;display:-ms-flexbox;display:flex;-webkit-box-pack:center;-ms-flex-pack:center;justify-content:center;-webkit-box-align:center;-ms-flex-align:center;align-items:center;width:137px;height:71px}.reviews__left-arrow{margin-right:20px}.reviews__carousel .owl-stage{margin-left:calc(50vw - 660px)}.telegram{background-color:#141414;position:relative}.telegram::before{content:'';background:linear-gradient(270.03deg, #0F0F0F 5.92%, #131111 50.97%, #141414 95.09%);-webkit-filter:blur(50px);filter:blur(50px);position:absolute;top:-100px;left:0;right:0;height:200px}.telegram__wrap{display:-webkit-box;display:-ms-flexbox;display:flex;-webkit-box-pack:justify;-ms-flex-pack:justify;justify-content:space-between}.telegram__hero{margin-right:40px;padding-top:60px}.telegram__title{text-transform:uppercase;color:#FFFFFF;max-width:550px;margin-bottom:32px}.telegram__text{color:#fff;margin-bottom:55px;max-width:450px}.telegram__phone{position:relative}.telegram__phone::before{content:"";position:absolute;top:0;right:0;background:url("../assets/telegram/light.png") no-repeat;background-size:cover;width:600px;height:600px;-webkit-transform:translate(50%, 50%);transform:translate(50%, 50%)}.telegram__small-item{position:absolute;bottom:800px;right:0;width:450px;height:450px;-webkit-transform:rotate(-32deg) translate(70%, 0%);transform:rotate(-32deg) translate(70%, 0%)}.telegram__big-item{position:absolute;bottom:0;left:0;width:700px;height:700px;-webkit-transform:rotate(25deg) translate(-100%, 10%);transform:rotate(25deg) translate(-100%, 10%)}.faq{position:relative;background-color:#fff;background:url("../assets/faq-bg.png") no-repeat;background-size:100% 100%;background-position-x:center;background-position-y:center;padding:160px 0;margin-top:-550px;overflow:hidden}.faq__title{text-align:center;text-transform:uppercase;color:#141414;margin-bottom:28px}.faq__small-question{position:absolute;top:60px;right:20px}.faq__small-question img{-webkit-transform:rotate(-34deg);transform:rotate(-34deg);width:200px}.faq__big-question{position:absolute;left:-70px;top:30%}.faq__big-question img{width:300px;-webkit-transform:rotate(26deg);transform:rotate(26deg)}.footer{background-color:#0A0011;padding:60px 0;position:relative;overflow:hidden}.footer::after{content:'';position:absolute;bottom:0;left:50%;-webkit-transform:translate(-50%, 10%);transform:translate(-50%, 10%);background:url("../assets/footer-light.png") no-repeat;background-size:cover;background-position-x:center;background-position-y:top;width:1100px;height:400px;pointer-events:none}.footer__wrap{display:-webkit-box;display:-ms-flexbox;display:flex;-webkit-box-pack:justify;-ms-flex-pack:justify;justify-content:space-between}.footer__logo{font-family:'Intro Black';font-style:normal;font-weight:900;font-size:33px;line-height:1.0;color:#FFFFFF;margin-right:194px}.footer__logo span{display:block;font-family:'Montserrat', sans-serif;font-size:14px;line-height:1.0}.footer__links{display:-webkit-box;display:-ms-flexbox;display:flex;-webkit-box-orient:vertical;-webkit-box-direction:normal;-ms-flex-direction:column;flex-direction:column}.footer__link{font-weight:700;color:#FFFFFF;margin-bottom:18px;cursor:pointer}.footer__mail{font-weight:700;color:#FFFFFF}.footer__socials{display:-webkit-box;display:-ms-flexbox;display:flex;-webkit-box-pack:justify;-ms-flex-pack:justify;justify-content:space-between;-webkit-box-align:start;-ms-flex-align:start;align-items:flex-start}.footer__social{margin-left:80px}.footer__bubles{pointer-events:none;position:absolute;left:50%;bottom:0;-webkit-transform:translate(-50%, 40%);transform:translate(-50%, 40%);width:500px;height:500px}

diff --git a/index.html b/index.html
@@ -522,6 +522,54 @@
                 </div>
             </div>
         </div>
+        <svg class="footer__bubles" width="927" height="928" viewBox="0 0 927 928" fill="none" xmlns="http://www.w3.org/2000/svg">
+            <g opacity="0.3" filter="url(#filter0_f_149_143)">
+                <ellipse cx="473" cy="472" rx="225" ry="120" transform="rotate(-180 473 472)" fill="#BA2C00"/>
+            </g>
+            <g filter="url(#filter1_f_149_143)">
+            <path d="M352 464C352 402.42 401.92 352.5 463.5 352.5C525.08 352.5 575 402.42 575 464C575 525.58 525.08 575.5 463.5 575.5C401.92 575.5 352 525.58 352 464Z" fill="#FFBC8B"/>
+            </g>
+            <circle class="floating-1" cx="439.501" cy="557.5" r="12.5" fill="#FFFFB1" fill-opacity="0.61"/>
+            <circle class="floating-2" cx="322.001" cy="454" r="5" fill="#F5DEB6" fill-opacity="0.6"/>
+            <circle class="floating-3" cx="481.501" cy="419.5" r="2.5" fill="#F7BE5C" fill-opacity="0.6"/>
+            <circle class="floating-4" cx="458.501" cy="397.5" r="2.5" fill="#F7BE5C" fill-opacity="0.6"/>
+            <circle class="floating" cx="347.501" cy="388.5" r="2.5" fill="#F7BE5C" fill-opacity="0.6"/>
+            <circle class="floating-1" cx="410.501" cy="403.5" r="2.5" fill="#F7BE5C" fill-opacity="0.6"/>
+            <circle class="floating-2" cx="388.001" cy="545" r="5" fill="#F7E48F" fill-opacity="0.6"/>
+            <circle class="floating-3" cx="408.001" cy="519" r="5" fill="#F7E48F" fill-opacity="0.6"/>
+            <circle class="floating-4" cx="562.501" cy="558.5" r="12.5" fill="#C95B33" fill-opacity="0.6"/>
+            <circle class="floating" cx="464.501" cy="449.5" r="12.5" fill="#FFFE80" fill-opacity="0.6"/>
+            <circle class="floating-1" cx="383.001" cy="470" r="20" fill="#C95B33" fill-opacity="0.4"/>
+            <circle class="floating-2" cx="522.501" cy="433.5" r="17.5" fill="#FFA972" fill-opacity="0.13"/>
+            <circle class="floating-3" cx="507.001" cy="534" r="20" fill="#FCF3E6" fill-opacity="0.2"/>
+            <circle class="floating-4" cx="567.001" cy="457" r="20" fill="#F8A85F" fill-opacity="0.6"/>
+            <circle class="floating" cx="535.501" cy="549.5" r="12.5" fill="#FFFFB1" fill-opacity="0.61"/>
+            <circle class="floating-1" cx="418.001" cy="446" r="5" fill="#F5DEB6" fill-opacity="0.6"/>
+            <circle class="floating-2" cx="577.501" cy="411.5" r="2.5" fill="#F7BE5C" fill-opacity="0.6"/>
+            <circle class="floating-3" cx="498.501" cy="368.5" r="2.5" fill="#F7BE5C" fill-opacity="0.6"/>
+            <circle class="floating-4" cx="589.501" cy="388.5" r="2.5" fill="#F7BE5C" fill-opacity="0.6"/>
+            <circle class="floating" cx="506.501" cy="395.5" r="2.5" fill="#F7BE5C" fill-opacity="0.6"/>
+            <circle class="floating-1" cx="484.001" cy="537" r="5" fill="#F7E48F" fill-opacity="0.6"/>
+            <circle class="floating-2" cx="504.001" cy="511" r="5" fill="#F7E48F" fill-opacity="0.6"/>
+            <circle class="floating-3" cx="458.501" cy="591.5" r="12.5" fill="#C95B33" fill-opacity="0.6"/>
+            <circle class="floating-4" cx="560.501" cy="441.5" r="12.5" fill="#FFFE80" fill-opacity="0.6"/>
+            <circle class="floating" cx="479.001" cy="462" r="20" fill="#C95B33" fill-opacity="0.4"/>
+            <circle class="floating-1" cx="611.501" cy="428.5" r="17.5" fill="#FFA972" fill-opacity="0.13"/>
+            <circle class="floating-2" cx="603.001" cy="526" r="20" fill="#FCF3E6" fill-opacity="0.2"/>
+            <circle class="floating-3" cx="663.001" cy="449" r="20" fill="#F8A85F" fill-opacity="0.6"/>
+            <defs>
+            <filter id="filter0_f_149_143" x="148" y="252" width="650" height="440" filterUnits="userSpaceOnUse" color-interpolation-filters="sRGB">
+                <feFlood flood-opacity="0" result="BackgroundImageFix"/>
+                <feBlend mode="normal" in="SourceGraphic" in2="BackgroundImageFix" result="shape"/>
+                <feGaussianBlur stdDeviation="50" result="effect1_foregroundBlur_149_143"/>
+            </filter>
+            <filter id="filter1_f_149_143" x="0" y="0.5" width="927" height="927" filterUnits="userSpaceOnUse" color-interpolation-filters="sRGB">
+                <feFlood flood-opacity="0" result="BackgroundImageFix"/>
+                <feBlend mode="normal" in="SourceGraphic" in2="BackgroundImageFix" result="shape"/>
+                <feGaussianBlur stdDeviation="176" result="effect1_foregroundBlur_149_143"/>
+            </filter>
+            </defs>
+        </svg>                               
     </footer>
     <script src="./js/main.js"></script>
     <script src="./js/jquery.slim.js"></script>

diff --git a/style/style.css b/style/style.css
@@ -112,11 +112,13 @@ body {
 }
 
 .floating {
+  pointer-events: none;
   -webkit-animation: floating 6s linear infinite;
           animation: floating 6s linear infinite;
 }
 
 .floating-1 {
+  pointer-events: none;
   -webkit-animation: floating 5s ease-in infinite;
           animation: floating 5s ease-in infinite;
   -webkit-animation-delay: 1s;
@@ -124,16 +126,19 @@ body {
 }
 
 .floating-2 {
+  pointer-events: none;
   -webkit-animation: floatingX 8s linear infinite;
           animation: floatingX 8s linear infinite;
 }
 
 .floating-3 {
+  pointer-events: none;
   -webkit-animation: floating 4s linear infinite;
           animation: floating 4s linear infinite;
 }
 
 .floating-4 {
+  pointer-events: none;
   -webkit-animation: floatingX 5s ease-in-out infinite;
           animation: floatingX 5s ease-in-out infinite;
 }
@@ -383,22 +388,24 @@ body {
 }
 
 .baner__left-corner-anim {
+  pointer-events: none;
   position: absolute;
   left: 0;
   bottom: 0;
   -webkit-transform: translate(-40%, 40%);
           transform: translate(-40%, 40%);
-  width: 800px;
+  width: 600px;
   height: 800px;
 }
 
 .baner__right-corner-anim {
+  pointer-events: none;
   position: absolute;
   right: 0;
   bottom: 0;
   -webkit-transform: translate(40%, 40%);
           transform: translate(40%, 40%);
-  width: 800px;
+  width: 600px;
   height: 800px;
 }
 
@@ -1115,8 +1122,8 @@ body {
   position: absolute;
   bottom: 0;
   left: 50%;
-  -webkit-transform: translate(-50%, 0%);
-          transform: translate(-50%, 0%);
+  -webkit-transform: translate(-50%, 10%);
+          transform: translate(-50%, 10%);
   background: url("../assets/footer-light.png") no-repeat;
   background-size: cover;
   background-position-x: center;
@@ -1188,4 +1195,15 @@ body {
 
 .footer__social {
   margin-left: 80px;
+}
+
+.footer__bubles {
+  pointer-events: none;
+  position: absolute;
+  left: 50%;
+  bottom: 0;
+  -webkit-transform: translate(-50%, 40%);
+          transform: translate(-50%, 40%);
+  width: 500px;
+  height: 500px;
 }

diff --git a/sass/_baner.sass b/sass/_baner.sass
@@ -30,16 +30,25 @@
         min-height: calc(100vh - 50px)
         transform: translateX(-15%)
     &__left-corner-anim
+        pointer-events: none
         position: absolute
         left: 0
         bottom: 0
         transform: translate(-40%, 40%)
-        width: 800px
+        width: 600px
         height: 800px
     &__right-corner-anim
+        pointer-events: none
         position: absolute
         right: 0
         bottom: 0
         transform: translate(40%, 40%)
-        width: 800px
+        width: 600px
         height: 800px
+
+// @media screen and (max-width: 1640px)
+//     .baner
+//         &__left-corner-anim
+//             width: 600px
+//         &__right-corner-anim
+//             width: 600px

diff --git a/sass/_footer.sass b/sass/_footer.sass
@@ -8,7 +8,7 @@
         position: absolute
         bottom: 0
         left: 50%
-        transform: translate(-50%, 0%)
+        transform: translate(-50%, 10%)
         background: url('../assets/footer-light.png') no-repeat
         background-size: cover
         background-position-x: center
@@ -49,4 +49,11 @@
         align-items: flex-start
     &__social
         margin-left: 80px
-        
+    &__bubles
+        pointer-events: none
+        position: absolute
+        left: 50%
+        bottom: 0
+        transform: translate(-50%, 40%)
+        width: 500px
+        height: 500px

diff --git a/sass/_general.sass b/sass/_general.sass
@@ -92,15 +92,20 @@ body
 //     padding: 0 20px
 
 .floating
+  pointer-events: none
   animation: floating 6s linear infinite
 .floating-1
+  pointer-events: none
   animation: floating 5s ease-in infinite
   animation-delay: 1s
 .floating-2
+  pointer-events: none
   animation: floatingX 8s linear infinite
 .floating-3
+  pointer-events: none
   animation: floating 4s linear infinite
 .floating-4
+  pointer-events: none
   animation: floatingX 5s ease-in-out infinite
 .floating-delay
   animation-delay: 3s
